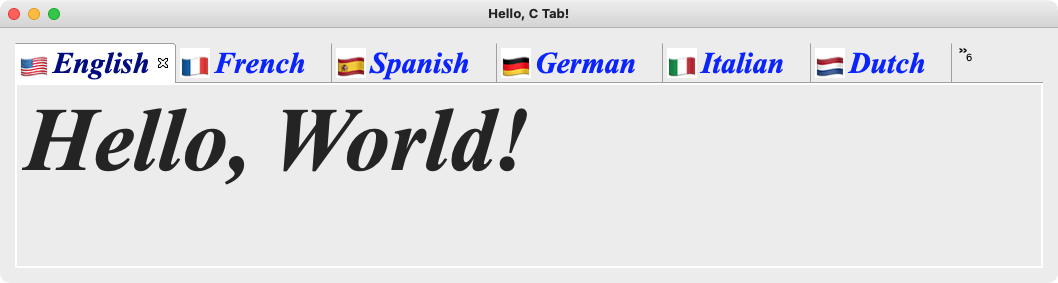
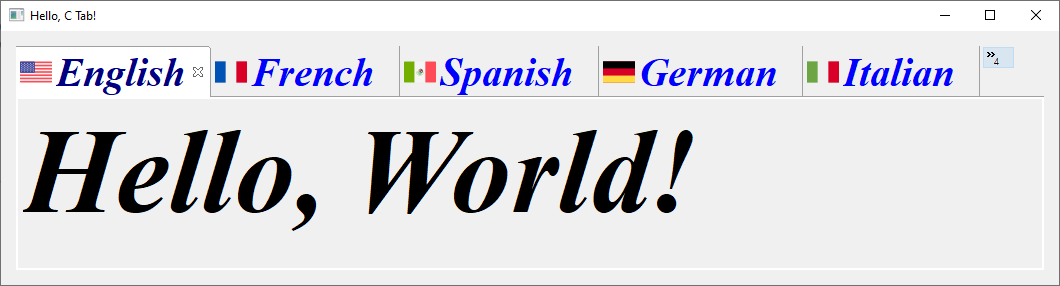
Upgrade to JRuby 9.2.17.0 / Fix Hello CTab on Windows

diff --git a/samples/hello/hello_c_tab.rb b/samples/hello/hello_c_tab.rb
@@ -19,6 +19,8 @@
 # OF CONTRACT, TORT OR OTHERWISE, ARISING FROM, OUT OF OR IN CONNECTION
 # WITH THE SOFTWARE OR THE USE OR OTHER DEALINGS IN THE SOFTWARE.
 
+# Country flag images were made by [Freepik](https://www.flaticon.com/authors/freepik) from [www.flaticon.com](http://www.flaticon.com)
+
 require 'glimmer-dsl-swt'
 
 class HelloCTab
@@ -41,12 +43,7 @@ class HelloCTab
           foreground :blue
           selection_foreground :dark_blue
           font name: 'Times New Roman', height: 30, style: [:bold, :italic]
-          image image(30, 30) {
-            ### building image on the fly with Canvas Shape DSL text shape flag emoji
-            text('🇺🇸', 0, 0) {
-              font name: 'Times New Roman', height: 30, style: [:bold, :italic]
-            }
-          }
+          image File.expand_path('hello_c_tab/usa.png', __dir__)
           
           label {
             text 'Hello, World!'
@@ -60,12 +57,7 @@ class HelloCTab
           foreground :blue
           selection_foreground :dark_blue
           font name: 'Times New Roman', height: 30, style: [:bold, :italic]
-          image image(30, 30) {
-            ### building image on the fly with Canvas Shape DSL text shape flag emoji
-            text('🇫🇷', 0, 0) {
-              font name: 'Times New Roman', height: 30, style: [:bold, :italic]
-            }
-          }
+          image File.expand_path('hello_c_tab/france.png', __dir__)
           
           label {
             text 'Bonjour, Univers!'
@@ -79,12 +71,7 @@ class HelloCTab
           foreground :blue
           selection_foreground :dark_blue
           font name: 'Times New Roman', height: 30, style: [:bold, :italic]
-          image image(30, 30) {
-            ### building image on the fly with Canvas Shape DSL text shape flag emoji
-            text('🇪🇸', 0, 0) {
-              font name: 'Times New Roman', height: 30, style: [:bold, :italic]
-            }
-          }
+          image File.expand_path('hello_c_tab/mexico.png', __dir__)
           
           label {
             text 'Hola, Mundo!'
@@ -98,12 +85,7 @@ class HelloCTab
           foreground :blue
           selection_foreground :dark_blue
           font name: 'Times New Roman', height: 30, style: [:bold, :italic]
-          image image(30, 30) {
-            # building image on the fly with Canvas Shape DSL text shape flag emoji
-            text('🇩🇪', 0, 0) {
-              font name: 'Times New Roman', height: 30, style: [:bold, :italic]
-            }
-          }
+          image File.expand_path('hello_c_tab/germany.png', __dir__)
 
           label {
             text 'Hallo, Welt!'
@@ -117,12 +99,7 @@ class HelloCTab
           foreground :blue
           selection_foreground :dark_blue
           font name: 'Times New Roman', height: 30, style: [:bold, :italic]
-          image image(30, 30) {
-            # building image on the fly with Canvas Shape DSL text shape flag emoji
-            text('🇮🇹', 0, 0) {
-              font name: 'Times New Roman', height: 30, style: [:bold, :italic]
-            }
-          }
+          image File.expand_path('hello_c_tab/italy.png', __dir__)
 
           label {
             text 'Ciao, Mondo!'
@@ -136,34 +113,10 @@ class HelloCTab
           foreground :blue
           selection_foreground :dark_blue
           font name: 'Times New Roman', height: 30, style: [:bold, :italic]
-          image image(30, 30) {
-            # building image on the fly with Canvas Shape DSL text shape flag emoji
-            text('🇳🇱', 0, 0) {
-              font name: 'Times New Roman', height: 30, style: [:bold, :italic]
-            }
-          }
+          image File.expand_path('hello_c_tab/netherlands.png', __dir__)
 
           label {
             text 'Hallo, Wereld!'
-            font name: 'Times New Roman', height: 90, style: [:bold, :italic]
-          }
-        }
-
-        c_tab_item(:close) {
-          text 'Portuguese'
-          tool_tip_text 'Portuguese Greeting'
-          foreground :blue
-          selection_foreground :dark_blue
-          font name: 'Times New Roman', height: 30, style: [:bold, :italic]
-          image image(30, 30) {
-            # building image on the fly with Canvas Shape DSL text shape flag emoji
-            text('🇧🇷', 0, 0) {
-              font name: 'Times New Roman', height: 30, style: [:bold, :italic]
-            }
-          }
-
-          label {
-            text 'Olá, Mundo!'
             font name: 'Times New Roman', height: 90, style: [:bold, :italic]
           }
         }
@@ -174,12 +127,7 @@ class HelloCTab
           foreground :blue
           selection_foreground :dark_blue
           font name: 'Times New Roman', height: 30, style: [:bold, :italic]
-          image image(30, 30) {
-            # building image on the fly with Canvas Shape DSL text shape flag emoji
-            text('🇩🇰', 0, 0) {
-              font name: 'Times New Roman', height: 30, style: [:bold, :italic]
-            }
-          }
+          image File.expand_path('hello_c_tab/denmark.png', __dir__)
 
           label {
             text 'Hej, Verden!'
@@ -193,34 +141,10 @@ class HelloCTab
           foreground :blue
           selection_foreground :dark_blue
           font name: 'Times New Roman', height: 30, style: [:bold, :italic]
-          image image(30, 30) {
-            # building image on the fly with Canvas Shape DSL text shape flag emoji
-            text('🇫🇮', 0, 0) {
-              font name: 'Times New Roman', height: 30, style: [:bold, :italic]
-            }
-          }
+          image File.expand_path('hello_c_tab/finland.png', __dir__)
 
           label {
             text 'Hei, Maailma!'
-            font name: 'Times New Roman', height: 90, style: [:bold, :italic]
-          }
-        }
-
-        c_tab_item(:close) {
-          text 'Swedish'
-          tool_tip_text 'Swedish Greeting'
-          foreground :blue
-          selection_foreground :dark_blue
-          font name: 'Times New Roman', height: 30, style: [:bold, :italic]
-          image image(30, 30) {
-            # building image on the fly with Canvas Shape DSL text shape flag emoji
-            text('🇸🇪', 0, 0) {
-              font name: 'Times New Roman', height: 30, style: [:bold, :italic]
-            }
-          }
-
-          label {
-            text 'Hej, Världen!'
             font name: 'Times New Roman', height: 90, style: [:bold, :italic]
           }
         }
@@ -231,12 +155,7 @@ class HelloCTab
           foreground :blue
           selection_foreground :dark_blue
           font name: 'Times New Roman', height: 30, style: [:bold, :italic]
-          image image(30, 30) {
-            # building image on the fly with Canvas Shape DSL text shape flag emoji
-            text('🇳🇴', 0, 0) {
-              font name: 'Times New Roman', height: 30, style: [:bold, :italic]
-            }
-          }
+          image File.expand_path('hello_c_tab/norway.png', __dir__)
 
           label {
             text 'Hei, Verden!'
@@ -244,27 +163,10 @@ class HelloCTab
           }
         }
 
-        c_tab_item(:close) {
-          text 'Russian'
-          tool_tip_text 'Russian Greeting'
-          foreground :blue
-          selection_foreground :dark_blue
-          font name: 'Times New Roman', height: 30, style: [:bold, :italic]
-          image image(30, 30) {
-            # building image on the fly with Canvas Shape DSL text shape flag emoji
-            text('🇷🇺', 0, 0) {
-              font name: 'Times New Roman', height: 30, style: [:bold, :italic]
-            }
-          }
-
-          label {
-            text 'Привет, мир!'
-            font name: 'Times New Roman', height: 90, style: [:bold, :italic]
-          }
-        }
-
       }
+
     }
+
   }
 end
 

diff --git a/samples/hello/hello_c_combo.rb b/samples/hello/hello_c_combo.rb
@@ -47,7 +47,7 @@ class HelloCCombo
         fill true
       }
       
-      text 'Hello, CCombo!'
+      text 'Hello, C Combo!'
       
       c_combo(:read_only) {
         selection bind(@person, :country) # also binds to country_options by convention

diff --git a/README.md b/README.md
@@ -10,7 +10,7 @@
 
 **(The Original Glimmer Library Handling the World’s Ruby GUI Needs Since 2007. Beware of Imitators!)**
 
-[Glimmer](https://github.com/AndyObtiva/glimmer) DSL for SWT is a native-GUI cross-platform desktop development library written in [JRuby](https://www.jruby.org/), an OS-threaded faster JVM version of [Ruby](https://www.ruby-lang.org/en/). [Glimmer](https://github.com/AndyObtiva/glimmer) was the [first Ruby gem](https://rubygems.org/gems/glimmer) to bring [SWT](https://www.eclipse.org/swt/) (Standard Widget Toolkit) to [Ruby](https://www.ruby-lang.org/en/), thanks to its creator [Andy Maleh](https://andymaleh.blogspot.com/), an EclipseCon/EclipseWorld/RubyConf speaker and expert. [Glimmer](https://github.com/AndyObtiva/glimmer)'s main innovation is a declarative [Ruby DSL](docs/reference/GLIMMER_GUI_DSL_SYNTAX.md#glimmer-dsl-syntax) that enables productive and efficient authoring of desktop application user-interfaces by relying on the robust [Eclipse SWT library](https://www.eclipse.org/swt/). [Glimmer](https://rubygems.org/gems/glimmer) additionally innovates by having built-in [data-binding](docs/reference/GLIMMER_GUI_DSL_SYNTAX.md#data-binding) support, which greatly facilitates synchronizing the GUI with domain models, thus achieving true decoupling of object oriented components and enabling developers to solve business problems (test-first) without worrying about GUI concerns, or alternatively drive development GUI-first, and then write clean business models (test-first) afterwards. Not only does Glimmer provide a large set of GUI [widgets](docs/reference/GLIMMER_GUI_DSL_SYNTAX.md#widgets), but it also supports drawing Canvas Graphics like [Shapes](docs/reference/GLIMMER_GUI_DSL_SYNTAX.md#canvas-shape-dsl) and [Animations](docs/reference/GLIMMER_GUI_DSL_SYNTAX.md#canvas-animation-dsl). To get started quickly, [Glimmer](https://rubygems.org/gems/glimmer) offers [scaffolding](docs/reference/GLIMMER_COMMAND.md#scaffolding) options for [Apps](#in-production), [Gems](docs/reference/GLIMMER_COMMAND.md#custom-shell-gem), and [Custom Widgets](docs/reference/GLIMMER_GUI_DSL_SYNTAX.md#custom-widgets). [Glimmer](https://rubygems.org/gems/glimmer) also includes native-executable [packaging](docs/reference/GLIMMER_PACKAGING_AND_DISTRIBUTION.md) support, sorely lacking in other libraries, thus enabling the delivery of desktop apps written in [Ruby](https://www.ruby-lang.org/en/) as truly native DMG/PKG/APP files on the [Mac](https://www.apple.com/ca/macos) + [App Store](https://developer.apple.com/macos/distribution/), MSI/EXE files on [Windows](https://www.microsoft.com/en-ca/windows), and [Gem Packaged Shell Scripts](docs/reference/GLIMMER_COMMAND.md#packaging) on [Linux](https://www.linux.org/).
+[Glimmer](https://github.com/AndyObtiva/glimmer) DSL for SWT is a native-GUI cross-platform desktop development library written in [JRuby](https://www.jruby.org/), an OS-threaded faster JVM version of [Ruby](https://www.ruby-lang.org/en/). [Glimmer](https://github.com/AndyObtiva/glimmer)'s main innovation is a declarative [Ruby DSL](docs/reference/GLIMMER_GUI_DSL_SYNTAX.md#glimmer-dsl-syntax) that enables productive and efficient authoring of desktop application user-interfaces by relying on the robust [Eclipse SWT library](https://www.eclipse.org/swt/). [Glimmer](https://rubygems.org/gems/glimmer) additionally innovates by having built-in [data-binding](docs/reference/GLIMMER_GUI_DSL_SYNTAX.md#data-binding) support, which greatly facilitates synchronizing the GUI with domain models, thus achieving true decoupling of object oriented components and enabling developers to solve business problems (test-first) without worrying about GUI concerns, or alternatively drive development GUI-first, and then write clean business models (test-first) afterwards. Not only does Glimmer provide a large set of GUI [widgets](docs/reference/GLIMMER_GUI_DSL_SYNTAX.md#widgets), but it also supports drawing Canvas Graphics like [Shapes](docs/reference/GLIMMER_GUI_DSL_SYNTAX.md#canvas-shape-dsl) and [Animations](docs/reference/GLIMMER_GUI_DSL_SYNTAX.md#canvas-animation-dsl). To get started quickly, [Glimmer](https://rubygems.org/gems/glimmer) offers [scaffolding](docs/reference/GLIMMER_COMMAND.md#scaffolding) options for [Apps](#in-production), [Gems](docs/reference/GLIMMER_COMMAND.md#custom-shell-gem), and [Custom Widgets](docs/reference/GLIMMER_GUI_DSL_SYNTAX.md#custom-widgets). [Glimmer](https://rubygems.org/gems/glimmer) also includes native-executable [packaging](docs/reference/GLIMMER_PACKAGING_AND_DISTRIBUTION.md) support, sorely lacking in other libraries, thus enabling the delivery of desktop apps written in [Ruby](https://www.ruby-lang.org/en/) as truly native DMG/PKG/APP files on the [Mac](https://www.apple.com/ca/macos) + [App Store](https://developer.apple.com/macos/distribution/), MSI/EXE files on [Windows](https://www.microsoft.com/en-ca/windows), and [Gem Packaged Shell Scripts](docs/reference/GLIMMER_COMMAND.md#packaging) on [Linux](https://www.linux.org/). [Glimmer](https://github.com/AndyObtiva/glimmer) was the [first Ruby gem](https://rubygems.org/gems/glimmer) to bring [SWT](https://www.eclipse.org/swt/) (Standard Widget Toolkit) to [Ruby](https://www.ruby-lang.org/en/), thanks to its creator [Andy Maleh](https://andymaleh.blogspot.com/), an EclipseCon/EclipseWorld/RubyConf speaker and expert (even Shoes recently copied Glimmer and switched to using SWT, fully confirming [Glimmer](https://github.com/AndyObtiva/glimmer)'s superiority).
 
 [<img src="https://covers.oreillystatic.com/images/9780596519650/lrg.jpg" width=105 /><br />
 Featured in JRuby Cookbook](http://shop.oreilly.com/product/9780596519650.do) and [Chalmers/Gothenburg University Software Engineering Master's Lecture Material](http://www.cse.chalmers.se/~bergert/slides/guest_lecture_DSLs.pdf)
@@ -488,6 +488,8 @@ table(:multi) {
 }
 ```
 
+If you need more widgets, you can check out the [Nebula Project](https://github.com/AndyObtiva/glimmer-cw-nebula) (50+ enterprise-grade custom widgets)
+
 Learn more at: [docs/reference/GLIMMER_GUI_DSL_SYNTAX.md](docs/reference/GLIMMER_GUI_DSL_SYNTAX.md)
 
 ## Glimmer Configuration
@@ -502,7 +504,7 @@ Learn more at: [docs/reference/GLIMMER_CONFIGURATION.md](docs/reference/GLIMMER_
 
 ## Samples
 
-Check the [samples](samples) directory in [glimmer-dsl-swt](https://github.com/AndyObtiva/glimmer-dsl-swt) for examples on how to write Glimmer applications. To run a sample, make sure to install the `glimmer-dsl-swt` gem first and then run:
+Check the [samples](/docs/reference/GLIMMER_SAMPLES.md) directory in [glimmer-dsl-swt](https://github.com/AndyObtiva/glimmer-dsl-swt) for examples on how to write Glimmer applications. To run a sample, make sure to install the `glimmer-dsl-swt` gem first and then run:
 ```
 glimmer samples
 ```
@@ -511,7 +513,7 @@ glimmer samples
 
 ![Glimmer Meta-Sample](/images/glimmer-meta-sample.png)
 
-See a listing of samples including screenshots and explanations at: [docs/reference/GLIMMER_SAMPLES.md](docs/reference/GLIMMER_SAMPLES.md)
+See a listing of samples including screenshots and explanations at: [docs/reference/GLIMMER_SAMPLES.md](/docs/reference/GLIMMER_SAMPLES.md)
 
 ## In Production
 
@@ -693,3 +695,5 @@ Copyright (c) 2007-2021 - Andy Maleh.
 --
 
 [<img src="https://raw.githubusercontent.com/AndyObtiva/glimmer/master/images/glimmer-logo-hi-res.png" height=40 />](https://github.com/AndyObtiva/glimmer) Built for [Glimmer](https://github.com/AndyObtiva/glimmer) (DSL Framework).
+
+Glimmer logo was made by [Freepik](https://www.flaticon.com/authors/freepik) from [www.flaticon.com](http://www.flaticon.com)

diff --git a/docs/reference/GLIMMER_SAMPLES.md b/docs/reference/GLIMMER_SAMPLES.md
@@ -105,7 +105,7 @@ Code:
 
 #### Hello, C Tab!
 
-This sample demonstrates custom tab widget usage (`c_tab_folder` and `c_tab_item`), which supports more customizations to tab fonts/background/foreground colors and display of extra additional tabs via a drop down.
+This sample demonstrates custom tab widget usage via the `c_tab_folder` and `c_tab_item` variations of `tab_folder` and `tab_item`, which can customize fonts/background/foreground colors for tabs and display additional tabs that do not fit in the window via a drop down.
 
 Code:
 
@@ -114,6 +114,8 @@ Code:
 ![Hello C Tab](/images/glimmer-hello-c-tab.png)
 ![Hello C Tab Extra Tabs](/images/glimmer-hello-c-tab-extra-tabs.png)
 ![Hello C Tab Other Tab](/images/glimmer-hello-c-tab-other-tab.png)
+
+Country flag images were made by [Freepik](https://www.flaticon.com/authors/freepik) from [www.flaticon.com](http://www.flaticon.com)
 
 #### Hello, Combo!
 

diff --git a/TODO.md b/TODO.md
@@ -4,7 +4,7 @@ Here is a list of tasks to do (moved to [CHANGELOG.md](CHANGELOG.md) once done).
 
 ## Next
 
-- Fix Hello CTab, Hello Tab, and Stock Ticker on Windows
+- Fix Hello CTab and Stock Ticker on Windows
 - Use custom widgets for the menu bar and dialogs in scaffolded apps
 
 - Extract Glimmer Tetris as a Glimmer External Sample just like Calculator to package it and eventually run via Glimmer DSL for Opal

diff --git a/CHANGELOG.md b/CHANGELOG.md
@@ -1,5 +1,10 @@
 # Change Log
 
+### 4.19.0.1
+
+- Upgrade to JRuby 9.2.17.0
+- Fix Hello CTab on Windows
+
 ### 4.19.0.0
 
 - Upgrade to SWT 4.19
